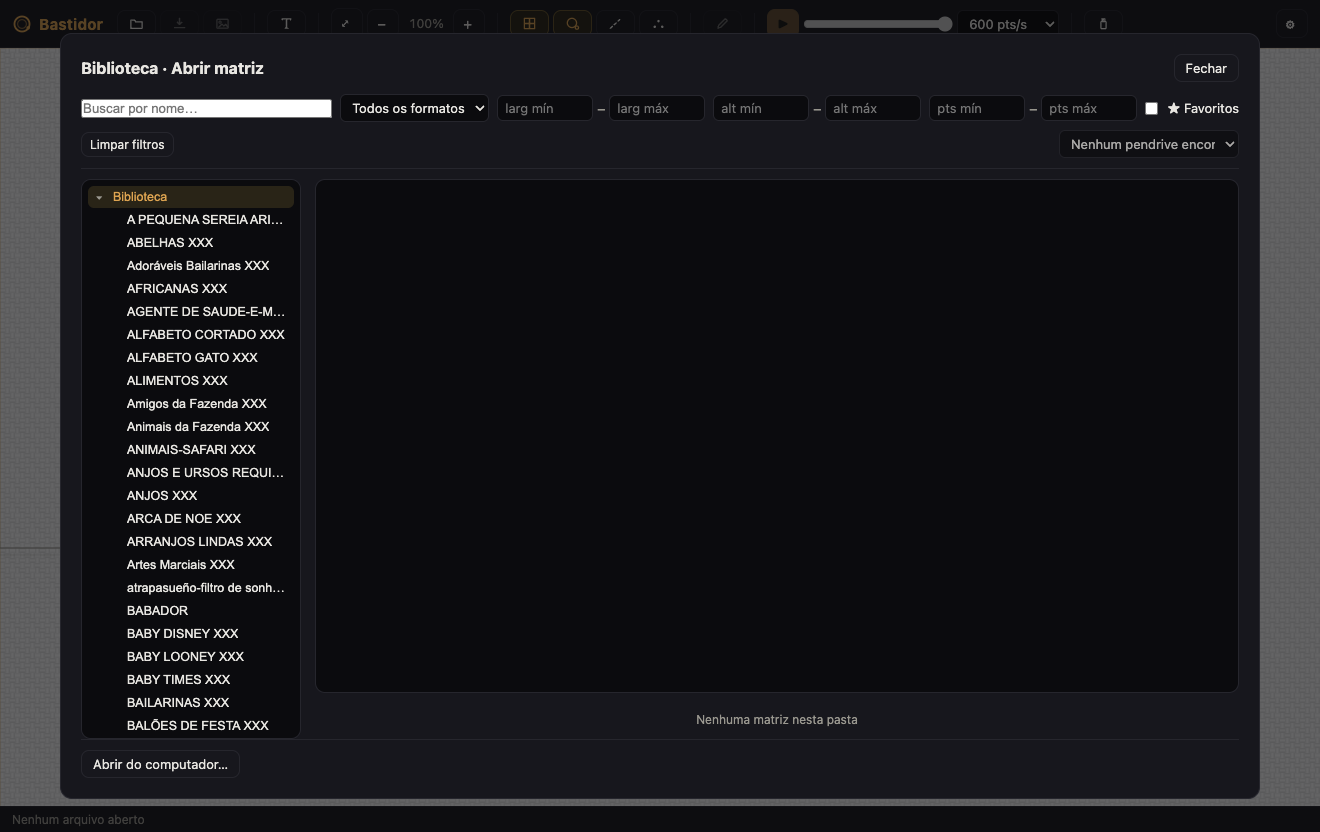
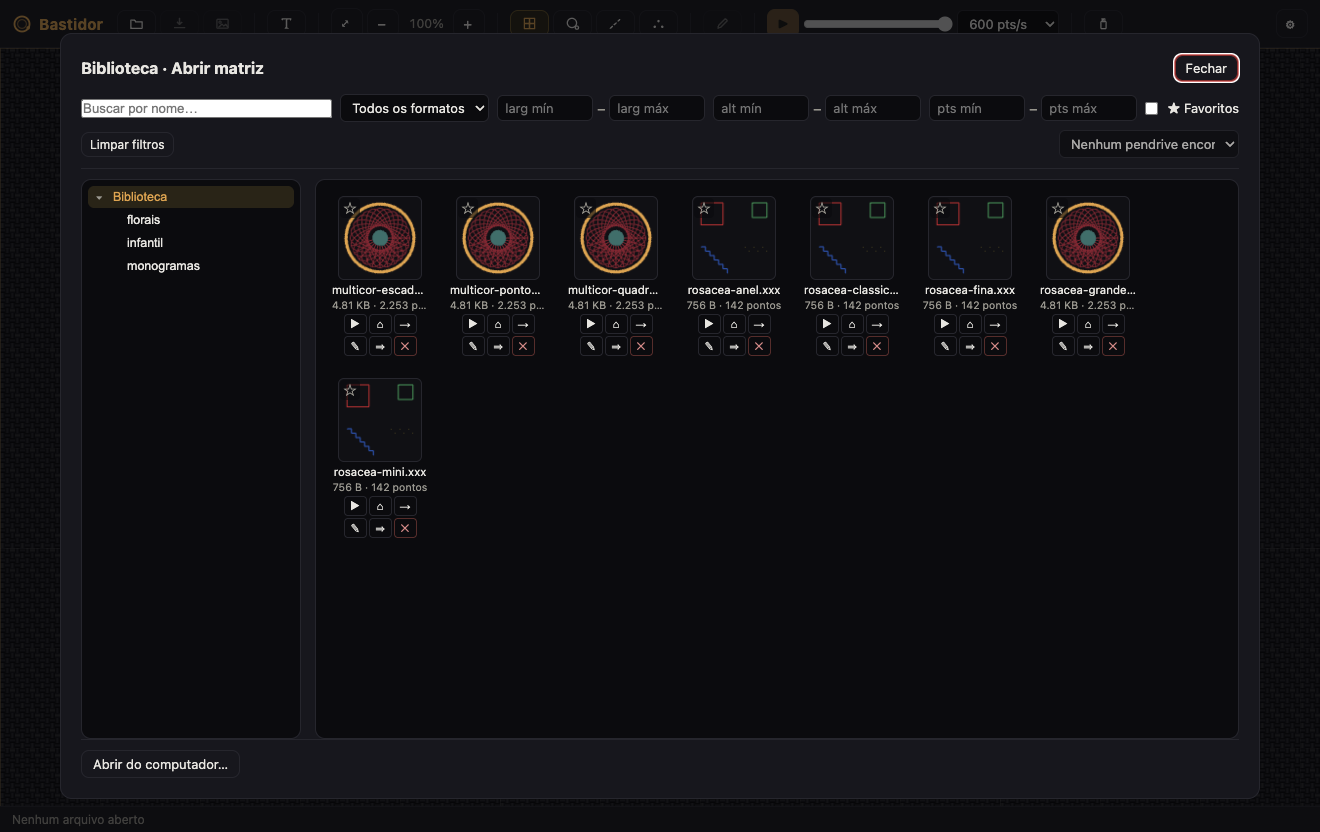
Review: neutral demo library in screenshots, middot in library titles
The library captures were showing the user's real personal catalog;
regenerated against a synthetic demo library with a pristine profile.
Also replaced the em dash in 'Library — Open/Save design' with the
project's middot separator, in both languages.

diff --git a/src/i18n.js b/src/i18n.js
@@ -329,8 +329,8 @@ const STRINGS = {
 
     // Library manager (issue #17): browse the catalog by folder, with search,
     // filters, favorites and open/save-as integration.
-    'lib.titleOpen': 'Library — Open design',
-    'lib.titleSave': 'Library — Save design',
+    'lib.titleOpen': 'Library · Open design',
+    'lib.titleSave': 'Library · Save design',
     'lib.searchPlaceholder': 'Search by name…',
     'lib.filterFormatTip': 'Filter by format',
     'lib.filterFormatAll': 'All formats',
